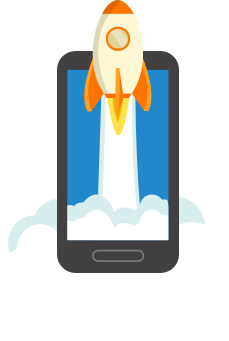
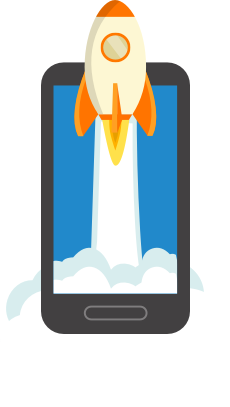
Fix get started link and make rocket bigger

Changed region(s): [[0.0306, 0.0, 0.917, 0.8211]]

diff --git a/media/css/styles.sass b/media/css/styles.sass
@@ -36,8 +36,8 @@ header
     background: #331D42
     padding: 15px 20px 20px 20px
     color: white
-    max-width: 450px
-    margin-top: 45px
+    max-width: 490px
+    margin-top: 25px
 
     h1
       overflow: hidden
@@ -126,11 +126,10 @@ header
       @include image-set($media_path + "img/logo", "png")
 
   #phone
-    height: 341px
-    width: 229px
+    height: 407px
+    width: 230px
     float: right
-    margin-top: -140px
-    padding-left: 90px
+    margin-top: -206px
     background-repeat: no-repeat
     position: relative
     @include image-set($media_path + "img/rocket", "png")
@@ -177,7 +176,7 @@ section#body
   margin: 0 auto
 
   article
-    width: 150px
+    width: 220px
     flex-grow: 1
     margin: 20px 10px
 
@@ -196,12 +195,12 @@ section#body
     @include image-set($media_path + "img/traffic-icon", "png")
 
 
-@media screen and (max-width: 580px)
+@media screen and (max-width: 700px)
   #phone
-    padding-left: 0 !important
     float: none !important
     margin: 30px auto -200px auto !important
 
+@media screen and (max-width: 550px)
   header
     padding: 0
 
@@ -209,6 +208,8 @@ section#body
       margin-top: 20px
       margin: 0 auto
 
+  section#body article
+    width: 100% !important
 
 @media screen and (max-width: 340px)
   #logo

diff --git a/index.html b/index.html
@@ -28,7 +28,7 @@
           <h1>Envoy <b>Mobile</b></h1>
           <p>Envoy Mobile brings the power and consistency of <a href="https://www.envoyproxy.io/">Envoy Proxy</a> to the iOS and Android platforms, providing a ubiquitous API and abstraction for mobile application networking. Running Envoy on the phone, at the edge, and within the datacenter provides unparalleled networking functionality and observability to modern distributed applications.</p>
           <div id="buttons">
-            <a href="{{ "/docs/envoy-mobile/latest/index.html" | relative_url }}" class="download">Get started</a>
+            <a href="{{ "/docs/envoy-mobile/latest/start/start.html" | relative_url }}" class="download">Get started</a>
           </div>
           <div class="cleaner"></div>
           <div id="preview-ribbon"></div>
